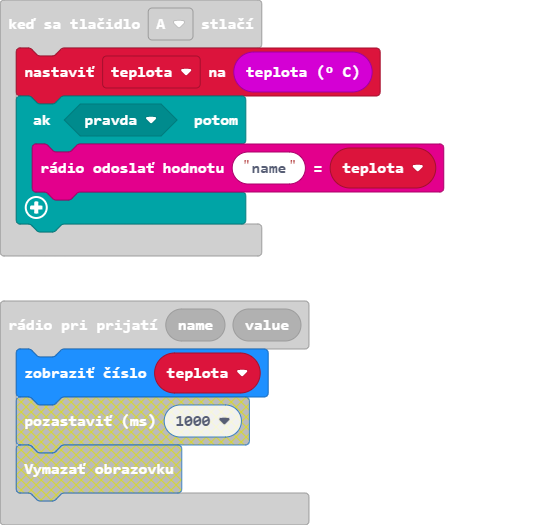
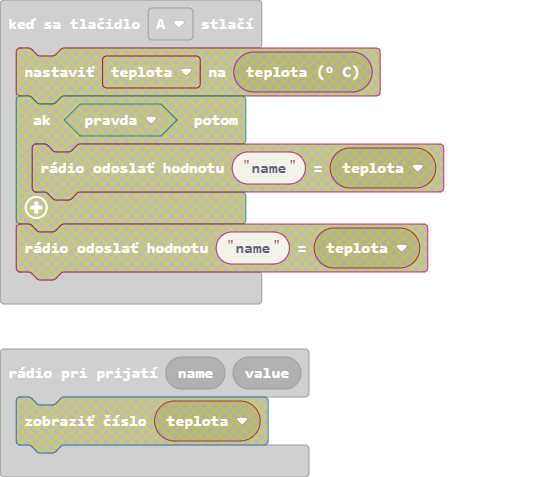
Aktualizovať main.blocks, main.ts, main.py

diff --git a/main.ts b/main.ts
@@ -1,10 +1,6 @@
-let teplota = 0
 input.onButtonPressed(Button.A, function () {
-    teplota = input.temperature()
-    if (true) {
-        radio.sendValue("name", teplota)
-    }
+	
 })
 radio.onReceivedValue(function (name, value) {
-    basic.showNumber(teplota)
+	
 })

diff --git a/main.py b/main.py
@@ -1,10 +1,10 @@
+teplota = 0
+
 def on_button_pressed_a():
-    if True:
-        radio.send_value("name", randint(0, 10))
+    radio.send_value("name", input.temperature())
 input.on_button_pressed(Button.A, on_button_pressed_a)
 
 def on_received_value(name, value):
-    basic.show_number(randint(0, 10))
-    basic.pause(1000)
-    basic.clear_screen()
+    global teplota
+    teplota = input.temperature()
 radio.on_received_value(on_received_value)
